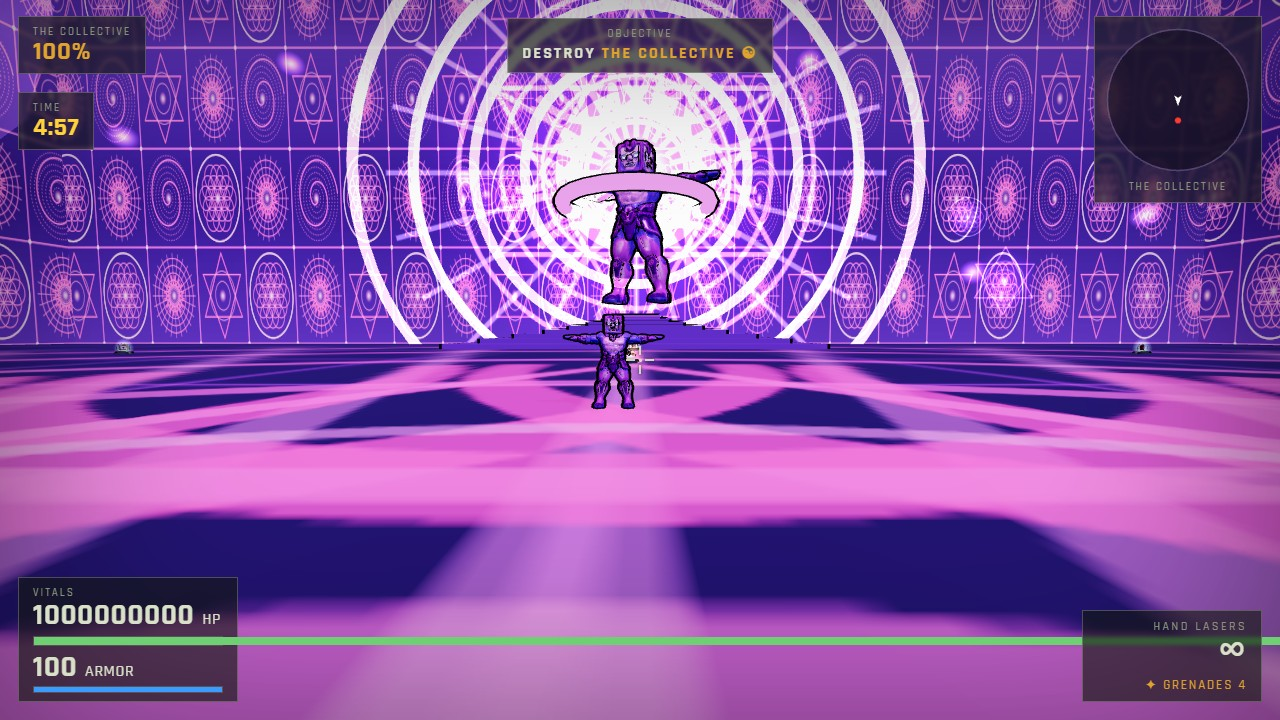
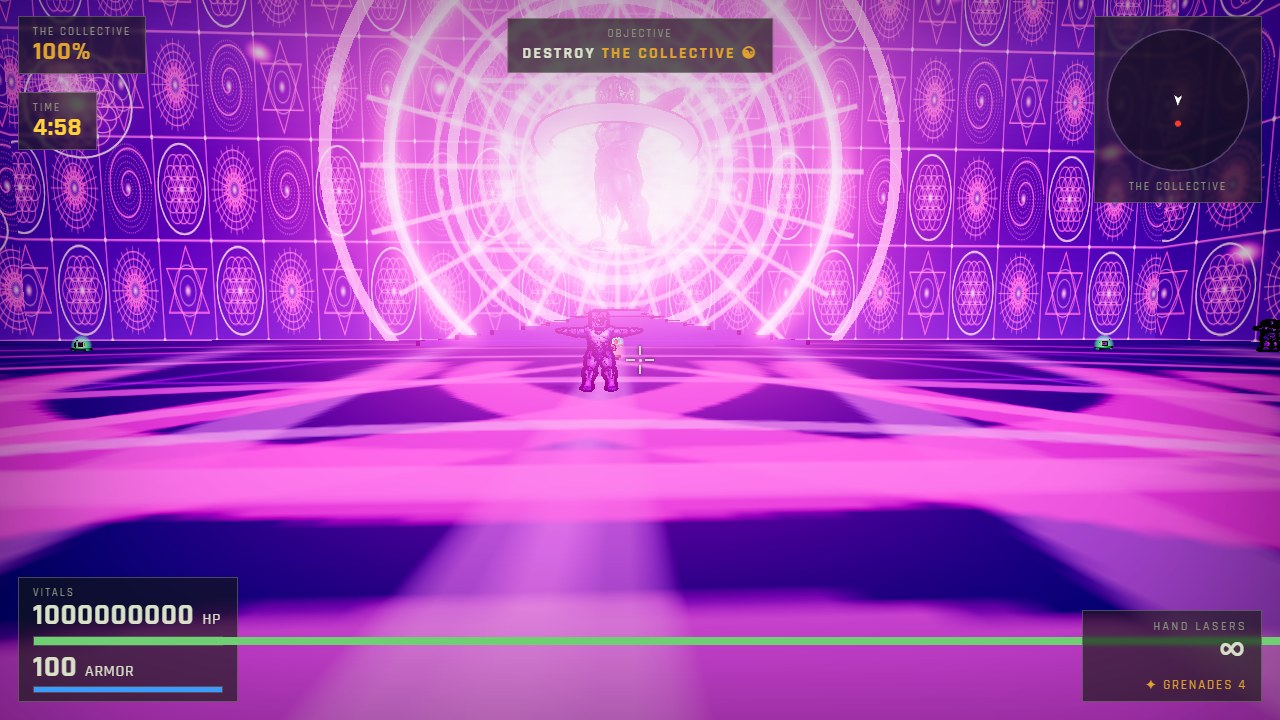
feat(engine): AAA post-processing pipeline (bloom + colour-grade + vignette over cel outlines), bolder XIII ink outlines, hit-stop game-juice; per-level grade tuned rich for THE COLLECTIVE

diff --git a/src/engine/postfx.js b/src/engine/postfx.js
@@ -1,26 +1,71 @@
 import * as THREE from "three";
 import { EffectComposer } from "three/addons/postprocessing/EffectComposer.js";
-import { RenderPass } from "three/addons/postprocessing/RenderPass.js";
+import { Pass } from "three/addons/postprocessing/Pass.js";
 import { UnrealBloomPass } from "three/addons/postprocessing/UnrealBloomPass.js";
+import { ShaderPass } from "three/addons/postprocessing/ShaderPass.js";
 import { OutputPass } from "three/addons/postprocessing/OutputPass.js";
 
-// Lean pipeline: just a threshold bloom so muzzle flashes, tracers, and the
-// exfil beacon glow cinematically. One extra pass — stays light.
-export function buildComposer(renderer, scene, camera) {
-  const size = renderer.getSize(new THREE.Vector2());
-  const composer = new EffectComposer(renderer);
-  composer.setPixelRatio(Math.min(window.devicePixelRatio, 1.5));
+// AAA post-processing chain, engine-wide. The scene is rendered THROUGH the cel-shade OutlineEffect into a
+// linear HDR target (so the ink outlines survive), then bloom lights up all the emissive/neon, a linear-space
+// colour-grade + vignette shapes the mood, and OutputPass does the ACES tone-map (+ renderer exposure) + sRGB.
+// Tone-mapping happens ONLY in OutputPass (the intermediate targets are linear), so nothing is double-mapped.
 
-  const renderPass = new RenderPass(scene, camera);
-  composer.addPass(renderPass);
+// render the active scene via the OutlineEffect into the composer's read buffer (mirrors three's RenderPass)
+class OutlineRenderPass extends Pass {
+  constructor(outline, getActive) { super(); this.outline = outline; this.getActive = getActive; this.clear = true; this.needsSwap = false; }
+  render(renderer, writeBuffer, readBuffer) {
+    const a = this.getActive(); if (!a) return;
+    const oldAutoClear = renderer.autoClear; renderer.autoClear = false;
+    renderer.setRenderTarget(this.renderToScreen ? null : readBuffer);
+    if (this.clear) renderer.clear(renderer.autoClearColor, renderer.autoClearDepth, renderer.autoClearStencil);
+    this.outline.render(a.scene, a.camera);
+    renderer.autoClear = oldAutoClear;
+  }
+}
 
-  const bloom = new UnrealBloomPass(new THREE.Vector2(size.x, size.y), 0.45, 0.6, 0.82);
-  composer.addPass(bloom);
-  composer.addPass(new OutputPass());
+// linear-space colour grade + vignette (applied before OutputPass tone-maps)
+const GradeShader = {
+  uniforms: {
+    tDiffuse: { value: null }, saturation: { value: 1.12 }, contrast: { value: 1.05 },
+    tint: { value: new THREE.Vector3(1, 1, 1) }, vignette: { value: 0.3 },
+  },
+  vertexShader: "varying vec2 vUv; void main(){ vUv = uv; gl_Position = projectionMatrix * modelViewMatrix * vec4(position, 1.0); }",
+  fragmentShader: `
+    uniform sampler2D tDiffuse; uniform float saturation, contrast, vignette; uniform vec3 tint; varying vec2 vUv;
+    void main() {
+      vec3 col = texture2D(tDiffuse, vUv).rgb;
+      float l = dot(col, vec3(0.2126, 0.7152, 0.0722));
+      col = mix(vec3(l), col, saturation);          // saturation
+      col = mix(vec3(0.18), col, contrast);         // contrast around linear mid-grey
+      col *= tint;                                  // hue push
+      vec2 d = vUv - 0.5; col *= 1.0 - vignette * dot(d, d); // vignette (darker corners)
+      gl_FragColor = vec4(max(col, 0.0), 1.0);
+    }`,
+};
 
-  return {
-    setSceneCamera(s, c) { renderPass.scene = s; renderPass.camera = c; },
-    setSize(w, h) { composer.setSize(w, h); bloom.setSize(w, h); },
-    render() { composer.render(); },
-  };
+export class PostFX {
+  constructor(renderer, outline, getActive) {
+    const size = renderer.getSize(new THREE.Vector2());
+    this.composer = new EffectComposer(renderer);
+    this.composer.setPixelRatio(renderer.getPixelRatio());
+    this.composer.addPass(new OutlineRenderPass(outline, getActive));
+    this.bloom = new UnrealBloomPass(new THREE.Vector2(size.x, size.y), 0.5, 0.7, 0.85); // (res, strength, radius, threshold)
+    this.composer.addPass(this.bloom);
+    this.grade = new ShaderPass(GradeShader);
+    this.composer.addPass(this.grade);
+    this.composer.addPass(new OutputPass());               // ACES tone-map (+ renderer exposure) + sRGB → screen
+  }
+  setSize(w, h) { this.composer.setSize(w, h); }
+  render(dt) { this.composer.render(dt); }
+  // per-level look — omit a field to keep the tasteful default
+  configure({ bloom, radius, threshold, saturation, contrast, tint, vignette } = {}) {
+    if (bloom != null) this.bloom.strength = bloom;
+    if (radius != null) this.bloom.radius = radius;
+    if (threshold != null) this.bloom.threshold = threshold;
+    const u = this.grade.uniforms;
+    if (saturation != null) u.saturation.value = saturation;
+    if (contrast != null) u.contrast.value = contrast;
+    if (vignette != null) u.vignette.value = vignette;
+    if (tint) u.tint.value.set(tint[0], tint[1], tint[2]);
+  }
 }

diff --git a/src/engine/engine.js b/src/engine/engine.js
@@ -1,5 +1,6 @@
 import * as THREE from "three";
 import { OutlineEffect } from "three/addons/effects/OutlineEffect.js";
+import { PostFX } from "./postfx.js";
 import { COLORS } from "./primitives.js";
 
 // Lightweight renderer: direct render (no post), PBR via image-based lighting.
@@ -16,13 +17,25 @@ export class Engine {
     this.renderer.toneMappingExposure = 0.85; // kept a bit dark for mood
     container.appendChild(this.renderer.domElement);
 
-    // comic/anime "XIII" look: bold black ink outlines around everything (cel-shaded edges)
-    this.outline = new OutlineEffect(this.renderer, { defaultThickness: 0.0042, defaultColor: [0, 0, 0], defaultAlpha: 0.9 });
+    // comic/anime "XIII" look: BOLD black ink outlines around everything (cel-shaded edges)
+    this.outline = new OutlineEffect(this.renderer, { defaultThickness: 0.0058, defaultColor: [0, 0, 0], defaultAlpha: 0.95 });
+
+    // AAA post-processing (bloom + colour-grade + vignette on top of the ink outlines). ?fx=off falls back to
+    // the plain outline render for low-end devices / debugging.
+    this.postfx = null;
+    try {
+      const off = typeof location !== "undefined" && /[?&]fx=off/.test(location.search);
+      if (!off) this.postfx = new PostFX(this.renderer, this.outline, () => this.active);
+    } catch (e) { this.postfx = null; /* post-fx unsupported → plain render */ }
 
     this.clock = new THREE.Clock();
     window.addEventListener("resize", () => this.resize());
     this.active = null;
   }
+
+  // per-level look (bloom strength/threshold, saturation, contrast, tint, vignette) — see PostFX.configure
+  setGrade(params) { this.postfx?.configure(params); }
+  setOutline(thickness, alpha) { if (thickness != null) this.outline.defaultThickness = thickness; if (alpha != null) this.outline.defaultAlpha = alpha; }
 
   // Baked equirectangular night sky (gradient + stars + big glowing moon),
   // used as the skybox AND the reflection/IBL source.
@@ -272,6 +285,7 @@ export class Engine {
   resize() {
     const w = window.innerWidth, h = window.innerHeight;
     this.renderer.setSize(w, h);
+    this.postfx?.setSize(w, h);
     if (this.active?.camera) { this.active.camera.aspect = w / h; this.active.camera.updateProjectionMatrix(); }
   }
 
@@ -281,7 +295,7 @@ export class Engine {
       const dt = Math.min(this.clock.getDelta(), 0.05);
       const t = this.clock.elapsedTime;
       if (onFrame) onFrame(dt, t);
-      if (this.active) this.outline.render(this.active.scene, this.active.camera);
+      if (this.active) { if (this.postfx) this.postfx.render(dt); else this.outline.render(this.active.scene, this.active.camera); }
     };
     loop();
   }

diff --git a/src/main.js b/src/main.js
@@ -78,6 +78,8 @@ class Game {
     if (this.cfg.scene.sky === "day") { this.engine.setupDay(this.scene); this.engine.addDayLights(this.scene); }
     else { this.engine.setupNight(this.scene); this.engine.addLights(this.scene); }
     if (this.cfg.exposure) this.engine.renderer.toneMappingExposure = this.cfg.exposure; // per-level brightness (the Collective temple runs BRIGHT, not the dim night default)
+    this.engine.setGrade?.(this.cfg.grade); // per-level AAA look (bloom/grade/vignette); omit → tasteful engine default
+    if (this.cfg.outline) this.engine.setOutline?.(this.cfg.outline.thickness, this.cfg.outline.alpha);
 
     this.level = new LevelBuilder(this.scene, this.cfg.balance); // built in _boot, once assets are loaded
     this.controller = new Controller(this.camera, this.engine.renderer.domElement, this.level);
@@ -130,6 +132,7 @@ class Game {
     this.shotsHit = 0;
     this.baseFov = this.cfg.scene.fov;
     this._fovKick = 0;
+    this._hitStop = 0; // AAA hit-stop timer (micro-freeze on impactful hits/kills)
     this.combat = null;
 
     this.engine.setActive(this.scene, this.camera);
@@ -187,7 +190,8 @@ class Game {
       onPlayerHit: (dmg) => this._onPlayerHit(dmg),
       onEnemyFire: (o) => this._enemyFire(o), // ranged enemies (gun/rocket Meeseeks) shoot at the player
       onBossBeam: () => { this.hud._shake = Math.max(this.hud._shake || 0, 22); }, // GUARDIAN beam screen shake
-      onKill: (count, left) => { this.hud.killFeed(this.cfg.messages.hostileDown); this.hud.setHostiles(left); this.voice.enemyDown(); },
+      onKill: (count, left) => { this.hud.killFeed(this.cfg.messages.hostileDown); this.hud.setHostiles(left); this.voice.enemyDown(); this._hitStop = Math.max(this._hitStop || 0, 0.045); this._fovKick = Math.min(this._fovKick + 1.2, 6); this.hud._shake = Math.max(this.hud._shake || 0, 8); }, // punchy kill feedback: hit-stop + FOV punch + shake
+
       onHitmarker: (killed) => { this.shotsHit++; this.hud.hitmarker(killed); this.audio.hitmarker(killed); },
       onExplosive: (rec, units) => this.destructibles.damageExplosive(rec, units),
       onVehicleHit: (rec, units) => this.destructibles.damageVehicle(rec, units),
@@ -899,6 +903,8 @@ class Game {
   }
 
   update(dt, t) {
+    // AAA HIT-STOP: a micro-freeze right after an impactful hit/kill so it BITES (real dt drives the timer)
+    if (this._hitStop > 0) { this._hitStop -= dt; dt *= 0.06; }
     this.hud.update(dt);
     this.vfx.update(dt); // always fade effects (even while paused) so trails clear
     this.engine.driftClouds && this.engine.driftClouds(dt, t); // clouds drift + billow across the sky

diff --git a/src/game/levels/rick-collective.js b/src/game/levels/rick-collective.js
@@ -11,6 +11,8 @@ export const rickCollective = {
     scene: { sky: "night", fog: { color: 0x2a1440, near: 40, far: 260 }, fov: 75 }, // dark base; the arena repaints a purple haze
     exposure: 1.7,                                              // BRIGHT neon-purple temple (override the dim night exposure)
     noStorm: true,                                             // enclosed interior — no lightning (it was also resetting exposure back to dim)
+    grade: { bloom: 0.82, radius: 0.72, threshold: 0.62, saturation: 1.26, contrast: 1.06, tint: [1.05, 0.97, 1.14], vignette: 0.42 }, // neon bloom + rich violet grade
+    outline: { thickness: 0.007, alpha: 1.0 },                 // bolder ink outlines for the comic-book pop
     intro: { enabled: true, style: "crawl", spottedCalloutAt: 4.5 }, // story crawl only — NO falling-stage animation (it's an enclosed temple)
     objective: { type: "slay", noun: "THE COLLECTIVE", startLabel: "DESTROY THE COLLECTIVE", startSub: "shatter the hive-mind's core" },
     helicopter: { spawnDelay: 99999 },                          // no gunship in the temple
